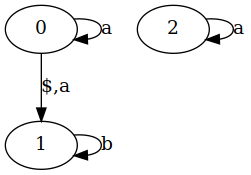
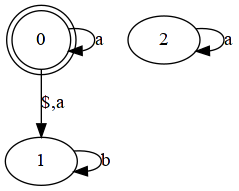
Fixed endstate drawings in graph Fixed start state drawing in graph

diff --git a/DFA.py b/DFA.py
@@ -20,10 +20,20 @@ class DFA:
         graph = nx.DiGraph()
         for key, value in self.transitions.items():
             label = key[1]
+
             # If this state transition already exist we should combine the label.
             if graph.get_edge_data(key[0], value):
                 label += "," + graph.get_edge_data(key[0], value)["label"]
+
+            # If this state is an end state
+            if key[0] in self.finals:
+                graph.add_node(key[0], shape="doublecircle")
+
             graph.add_edge(key[0], value, label=label)
+
+        # Add start arrow
+        graph.add_node(' ', shape="point")
+        graph.add_edge(' ', self.start)
 
         # trick for labeling
         for u, v, d in graph.edges(data=True):

diff --git a/NDFA.py b/NDFA.py
@@ -28,8 +28,15 @@ class NDFA:
         for key, value in self.transitions.items():
             for t in value:
                 label = key[1]
+
+                # If this state transition already exist we should combine the label.
                 if graph.get_edge_data(key[0], t):
                     label += "," + graph.get_edge_data(key[0], t)["label"]
+
+                # If this state is an end state
+                if key[0] in self.finals:
+                    graph.add_node(key[0], shape="doublecircle")
+
                 graph.add_edge(key[0], t, label=label)
 
         # trick for labeling

diff --git a/Main.py b/Main.py
@@ -73,8 +73,9 @@ if __name__ == "__main__":
     dfa2 = DFA(alphabet, transitions_dfa_2, start_dfa_2, finals_dfa_2)
 
     dfa3 = dfa1 | dfa2
-    print(dfa3.start)
-    print(dfa3.finals)
+
+    dfa1.get_graph("dfa-1")
+    dfa2.get_graph("dfa-2")
     dfa3.get_graph("dfa-3")
 
     # ----------------------------- #
